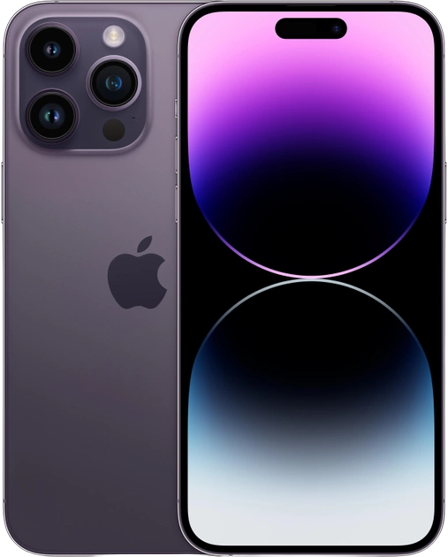
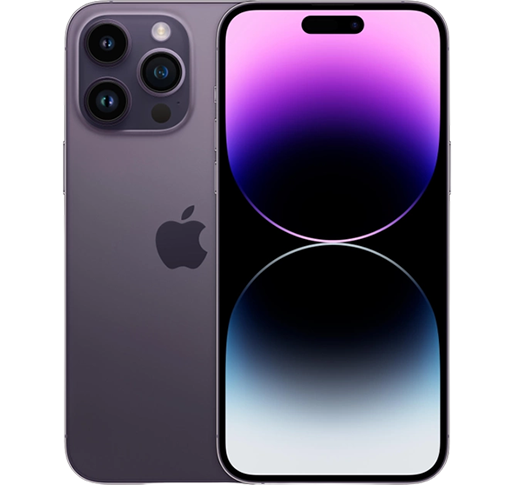
🖼 Add mock phone images

diff --git a/frontend/src/components/detail/ProductImage.vue b/frontend/src/components/detail/ProductImage.vue
@@ -1,8 +1,11 @@
 <script setup>
-import mockPhoneImage from '@/assets/images/mock_phone.png';
+import mockPhoneImage1 from '@/assets/images/mock_phone.png';
+import mockPhoneImage2 from '@/assets/images/mock_phone2.png';
+import mockPhoneImage3 from '@/assets/images/mock_phone3.png';
+import mockPhoneImage4 from '@/assets/images/mock_phone4.png';
 import { ref } from 'vue';
 
-const images = [mockPhoneImage, mockPhoneImage, mockPhoneImage, mockPhoneImage];
+const images = [mockPhoneImage1, mockPhoneImage2, mockPhoneImage3, mockPhoneImage4];
 const selectedImage = ref(images[0]);
 
 const selectImage = (img) => {
@@ -19,7 +22,7 @@ const selectImage = (img) => {
         class="w-16 h-20 object-contain cursor-pointer transition-opacity duration-200"
         :class="{
           'opacity-100': selectedImage === img,
-          'opacity-40 hover:opacity-70': selectedImage !== img,
+          'opacity-40 hover:opacity-80': selectedImage !== img,
         }"
         :src="img"
         alt="product-thumbnail"
